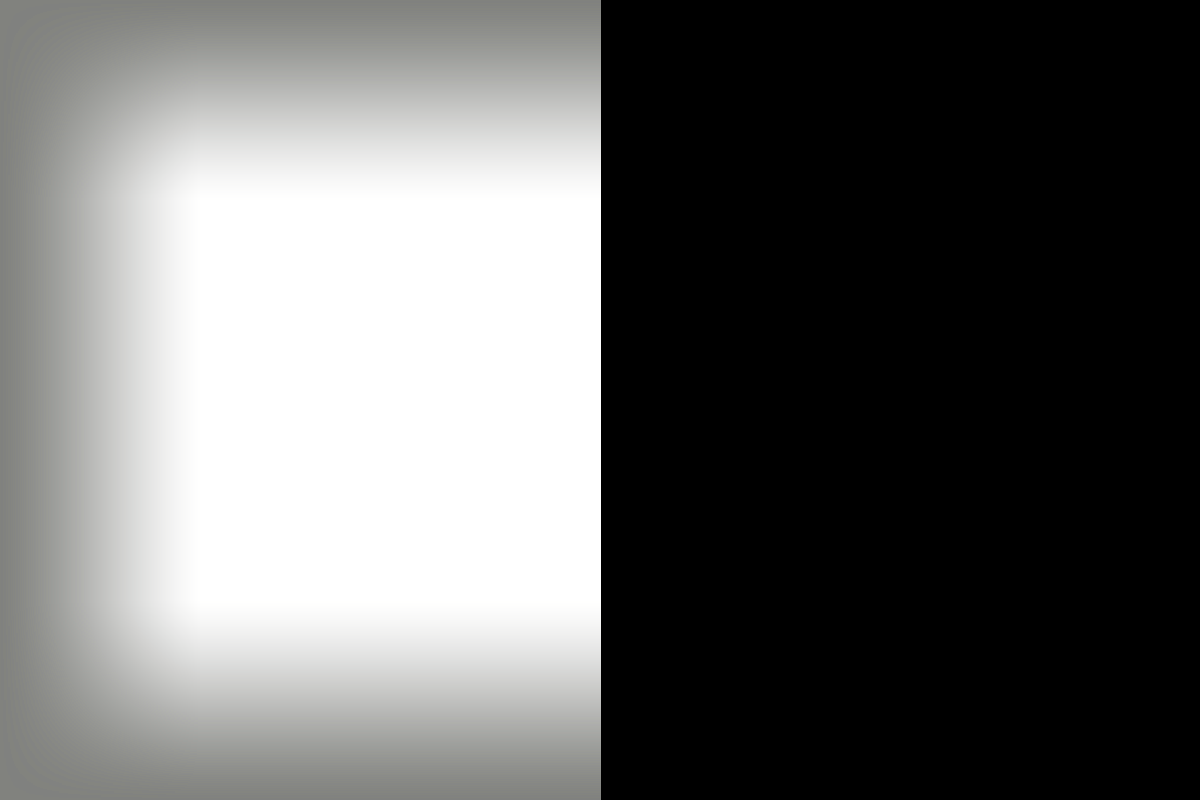
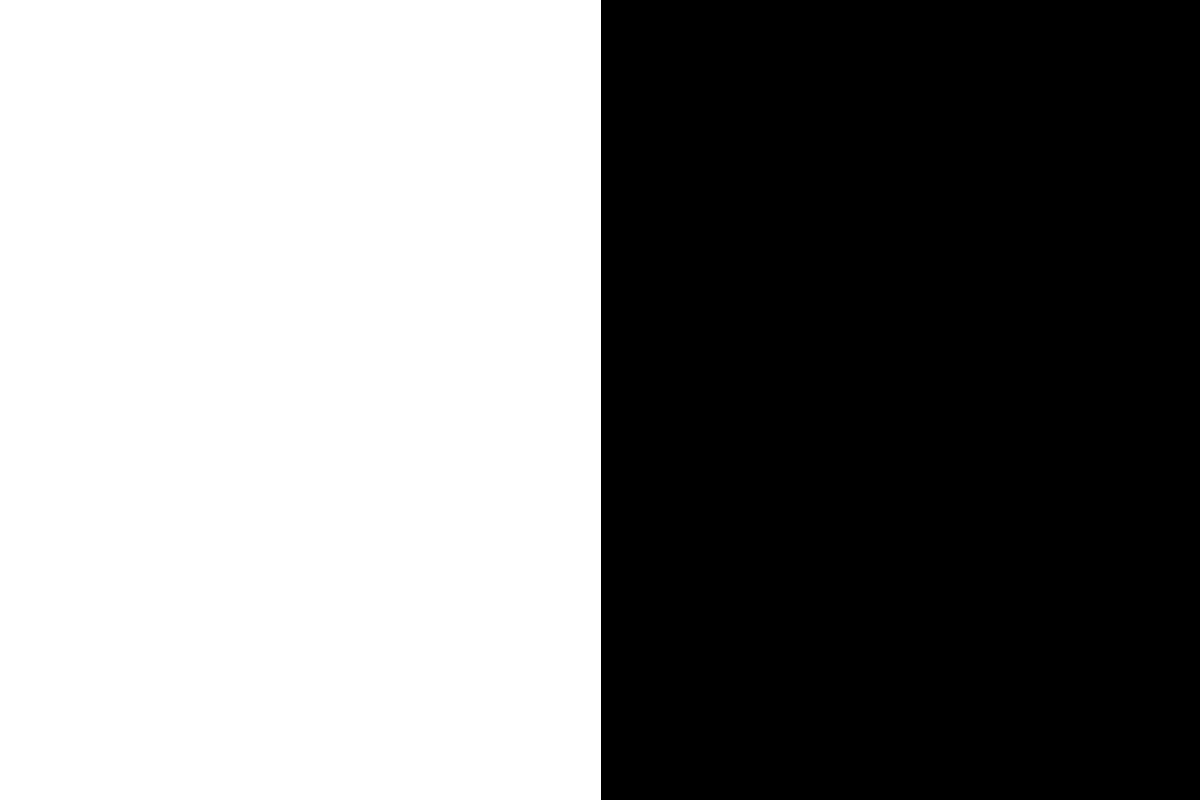
commit

Changed region(s): [[0.0, 0.0, 0.5242, 1.0]]

diff --git a/Assets/UI/HUD/HUD.cs b/Assets/UI/HUD/HUD.cs
@@ -1,8 +1,6 @@
-using System.Linq;
 using UnityEngine;
 using UnityEngine.UIElements;
 using System.Collections;
-using Unity.VisualScripting;
 
 public class HUD : MonoBehaviour
 {
@@ -21,7 +19,8 @@ public class HUD : MonoBehaviour
 
     UIDocument doc;
 
-    VisualElement background;
+    VisualElement backgroundVignette;
+    VisualElement playerVisionMask;
     VisualElement healthFill;
     Label healthText;
     Label ammoText;
@@ -42,7 +41,8 @@ public class HUD : MonoBehaviour
         doc = GetComponent<UIDocument>();
         var root = doc.rootVisualElement;
 
-        background = root.Q<VisualElement>("vignette-panel");
+        backgroundVignette = root.Q<VisualElement>("vignette-panel");
+        playerVisionMask = root.Q<VisualElement>("player-vision-mask");
         healthFill = root.Q<VisualElement>("health-bar-fill");
         healthText = root.Q<Label>("health-text");
         ammoText = root.Q<Label>("ammo-text");
@@ -92,7 +92,6 @@ public class HUD : MonoBehaviour
     {
         StartCoroutine(FadeToBlack(isBlind));
 
-
         IEnumerator FadeToBlack (bool forward)
         {
             Color regBgCol = new Color (0, 0, 0, 0);
@@ -114,10 +113,10 @@ public class HUD : MonoBehaviour
             {
                 timer += Time.deltaTime;
                 float t = timer / 0.5f;
-                background.style.backgroundColor = Color.Lerp(normalColor, newColor, t);
+                backgroundVignette.style.backgroundColor = Color.Lerp(normalColor, newColor, t);
                 yield return null;
             }
-            background.style.backgroundColor = new StyleColor(newColor);
+            backgroundVignette.style.backgroundColor = new StyleColor(newColor);
             baseBackgroundTint = blindBgCol;
         }
     }
@@ -151,18 +150,17 @@ public class HUD : MonoBehaviour
                 {
                     timer += Time.deltaTime;
                     float t = timer / 0.5f;
-                    background.style.backgroundColor = Color.Lerp(normalColor, newColor, t);
+                    backgroundVignette.style.backgroundColor = Color.Lerp(normalColor, newColor, t);
                     yield return null;
                 }
-                background.style.backgroundColor = new StyleColor(newColor);
+                backgroundVignette.style.backgroundColor = new StyleColor(newColor);
             }
         }
     }
 
     void SetOneEyed ()
     {
-        background.style.backgroundImage = oneEyedImage;
-        StartCoroutine(FadeFromTo(baseBackgroundTint, new Color(0, 0, 0, 1), 0.2f));
+        playerVisionMask.style.backgroundImage = oneEyedImage;
     }
 
 
@@ -204,10 +202,10 @@ public class HUD : MonoBehaviour
         {
             timer += Time.deltaTime;
             float t = timer / duration;
-            background.style.unityBackgroundImageTintColor =
+            backgroundVignette.style.unityBackgroundImageTintColor =
                 new StyleColor(Color.Lerp(normalColor, newColor, t));
             yield return null;
         }
-        background.style.unityBackgroundImageTintColor = new StyleColor(newColor);
+        backgroundVignette.style.unityBackgroundImageTintColor = new StyleColor(newColor);
     }
 }

diff --git a/Assets/Scripts/GameManager.cs b/Assets/Scripts/GameManager.cs
@@ -98,7 +98,7 @@ public class GameManager : MonoBehaviour
 
             case StatName.MAGAZINE_SIZE:
                 PlayerManager.Instance.gunHitscan.magazineSizeMod = (int)StatModManager.GetStatModifier(stat);
-                PlayerManager.Instance.gunHitscan.currentMagazine = math.min(PlayerManager.Instance.gunHitscan.currentMagazine, PlayerManager.Instance.gunHitscan.magazineSize + PlayerManager.Instance.gunHitscan.magazineSizeMod);
+                PlayerManager.Instance.gunHitscan.currentMagazine = math.min(PlayerManager.Instance.gunHitscan.currentMagazine + PlayerManager.Instance.gunHitscan.magazineSizeMod, PlayerManager.Instance.gunHitscan.magazineSize + PlayerManager.Instance.gunHitscan.magazineSizeMod);
                 PlayerManager.Instance.gunHitscan.ForceUpdateMagazine();
                 return;
 
@@ -125,7 +125,7 @@ public class GameManager : MonoBehaviour
                 return;
 
             case StatName.HEADSHOT_BONUS:
-                PlayerManager.Instance.gunHitscan.headShotDamageBonus =StatModManager.GetStatModifier(stat);
+                PlayerManager.Instance.gunHitscan.headShotDamageMod = StatModManager.GetStatModifier(stat);
                 return;
 
             case StatName.BULLET_RANGE:

diff --git a/Assets/Scripts/Stat Mods/StatModTester.cs b/Assets/Scripts/Stat Mods/StatModTester.cs
@@ -5,10 +5,18 @@ public class StatModTester : MonoBehaviour
     // Start is called once before the first execution of Update after the MonoBehaviour is created
     void Start()
     {
-        //StatModManager.AddStatModifier(StatName.LADY_FIRE_RATE, 3);
-        //  AbilityModManager.StartAbility(AbilityName.BLINDNESS, -1);
-        //  AbilityModManager.StartAbility(AbilityName.BLINKING, -1);
+        Invoke(nameof(wrapper),1);
+        //AbilityModManager.StartAbility(AbilityName.ONE_EYED, -1);
+        //AbilityModManager.StartAbility(AbilityName.BLINKING, -1);
+        AbilityModManager.StartAbility(AbilityName.BLINDNESS, -1);
     }
 
+    void wrapper()
+    {
+        //StatModManager.AddStatModifier(StatName.HEADSHOT_BONUS, 3);
+        //AbilityModManager.StartAbility(AbilityName.INVINCIBILITY, 10);
+        //AbilityModManager.StartAbility(AbilityName.KNOCKBACK_ABILITY, 10);
+//        AbilityModManager.StartAbility(AbilityName.FULL_AUTO, -1);
+    }
 
 }

diff --git a/Assets/Scripts/Player/PlayerHealth.cs b/Assets/Scripts/Player/PlayerHealth.cs
@@ -55,9 +55,6 @@ public class PlayerHealth : MonoBehaviour, IDamageable
 
     public void TakeDamage(int amount, Vector3 hitPoint, Vector3 hitNormal)
     {
-        if (invincible) return;
-        currentHealth -= amount;
-        currentHealth = Mathf.Max(0, currentHealth);
 
         if (takesKnockback)
         {
@@ -65,6 +62,10 @@ public class PlayerHealth : MonoBehaviour, IDamageable
             knockbackVelocity = -knockbackDirection * knockbackForce;
             knockbackTimer = knockbackDuration;
         }
+        
+        if (invincible) return;
+        currentHealth -= amount;
+        currentHealth = Mathf.Max(0, currentHealth);
 
         if (AOEOnDamage)
         {

diff --git a/Assets/UI/PauseMenu/PauseMenu.cs b/Assets/UI/PauseMenu/PauseMenu.cs
@@ -142,14 +142,14 @@ public class PauseMenu : MonoBehaviour
         }
     }
 
-    void ExitToMainMenu()
+    async void ExitToMainMenu()
     {
         PlayUIClick();
         Time.timeScale = 1f;
         if (GameManager.Instance != null) GameManager.Instance.gamePaused = false;
 
         Destroy(GameManager.Instance.gameObject);
-        SceneFader.Instance.FadeToScene(mainMenuSceneName);
+        await SceneFader.Instance.FadeToScene(mainMenuSceneName);
     }
 
     void SetVisible(bool visible)
